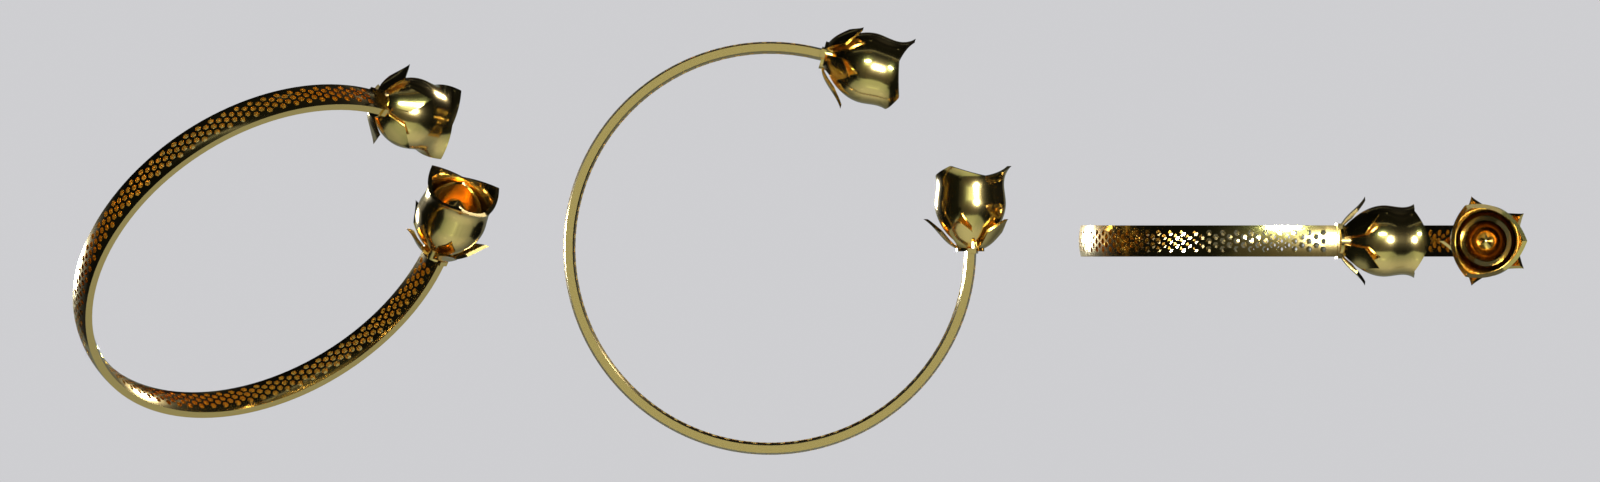
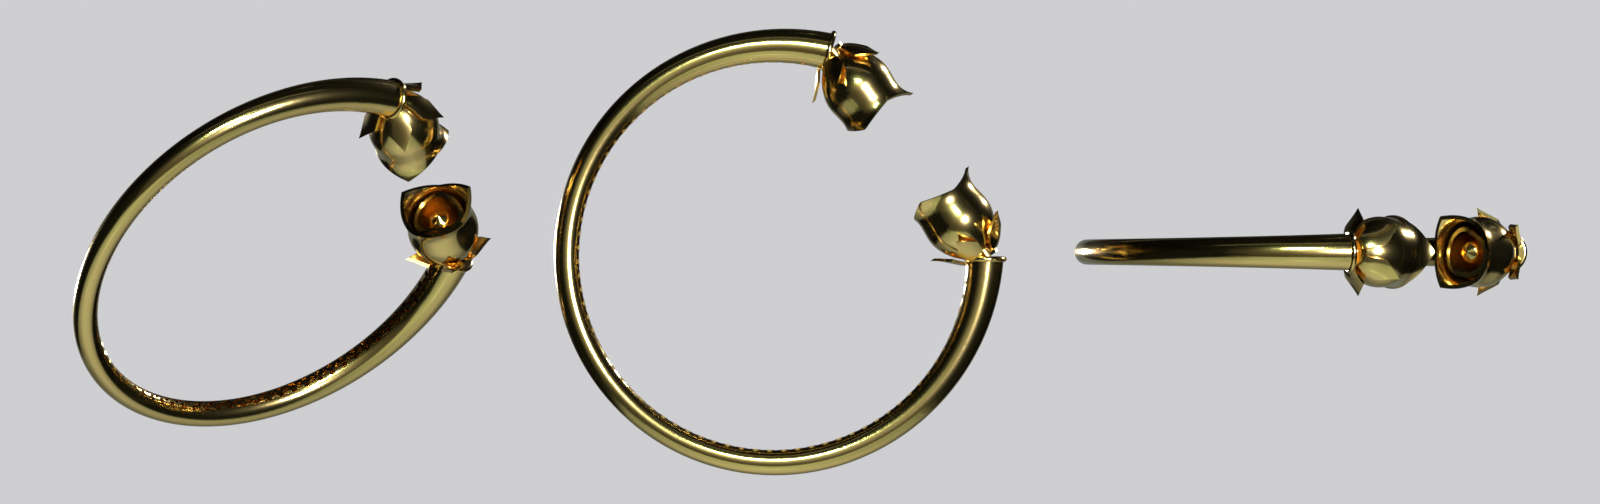
Bangle: hollow tapered tube with inner honeycomb, facing rose buds

Changed region(s): [[0.3438, 0.0311, 0.6562, 0.9336], [0.0312, 0.1556, 0.3125, 0.8714], [0.6562, 0.4046, 0.9688, 0.5913]]

diff --git a/bangle.py b/bangle.py
@@ -48,6 +48,7 @@ def build(inner_d, width, thickness, pattern="plain", gap=0.0, caps=0, roses=Fal
     """Returns (metal solid, warnings)."""
     r_in, w, t = inner_d / 2, width, thickness
     span = 360 - math.degrees(gap / r_in)
+    tube = pattern == "hex"
     if pattern == "twist":
         # Burma twist: rounded-rectangle section swept round the circle while rotating, steered by an
         # auxiliary spine wound around the path. ponytail: inner diameter is kept at the section's
@@ -66,22 +67,40 @@ def build(inner_d, width, thickness, pattern="plain", gap=0.0, caps=0, roses=Fal
         aux = cq.Wire.assembleEdges([cq.Edge.makeSpline(aux, periodic=gap == 0)])
         section = cq.Workplane("XY", origin=(R, 0, 0)).sketch().rect(t, w).vertices().fillet(min(w, t) / 4).finalize()
         body = section.sweep(cq.Workplane().add(path), auxSpine=cq.Workplane().add(aux)).val()
+    elif tube:
+        # Round tube, diameter w mid-arc growing to 1.5 w at the open ends, hollow with wall t (solid when
+        # t is near w/2). The bore stays at r_in. ponytail: open cuffs are lofted through circles every
+        # ~25 deg, so the centre line is a spline that hugs the arc rather than a true arc.
+        d = lambda a: w * (1 + 0.5 * abs(2 * a / span - 1) ** 3)
+        def loft(a0, a1, wall):
+            secs = []
+            for a in (a0 + (a1 - a0) * k / 12 for k in range(13)):
+                u = V(math.cos(math.radians(a)), 0, -math.sin(math.radians(a)))
+                secs.append(cq.Wire.makeCircle(d(a) / 2 - wall, u * (r_in + d(a) / 2), Y.cross(u)))  # normal = tangent
+            return cq.Solid.makeLoft(secs)
+        ring = lambda r: cq.Workplane("XY").moveTo(r_in + w / 2, 0).circle(r).revolve(360, (0, 0, 0), (0, 1, 0)).val()
+        cap = math.degrees(1.0 / r_in)                                   # 1 mm closed end before the void starts
+        body = loft(0, span, 0) if gap else ring(w / 2)
+        if t < w / 2 - 0.15:
+            body = body.cut(loft(cap, span - cap, t) if gap else ring(w / 2 - t))
+        W = T = 1.5 * w if gap else w                                     # tube diameter at the open ends
     else:
         body, W, T = band(r_in, w, t, span), w, t
 
     tools = []
     margin = (caps * 1.5 + 1.0 + 1.5 * bool(roses)) if gap else 0.0     # keep patterns clear of the ends
     if pattern == "hex":
-        # Honeycomb pierced radially through the band, solid rims along both edges. One column of hex
-        # prisms is built, then copied round the arc; all copies are cut in one boolean.
-        # ponytail: straight radial prisms, so the web is ~0.02 mm thinner on the inside face.
+        # Honeycomb on the inner face of the tube: prisms run from inside the bore to the tube centre line,
+        # so they pierce the inner wall into the hollow and never reach the smooth outer face. One column
+        # is built, then copied round the arc; all copies are cut in one boolean.
+        # ponytail: straight radial prisms; where t is near w/2 (solid tube) they become blind pockets.
         pitch = HEX_HOLE + HEX_WEB
-        col_pitch, reach = pitch * math.sqrt(3) / 2, w / 2 - HEX_RIM - HEX_HOLE / 2
+        col_pitch, reach = pitch * math.sqrt(3) / 2, 0.3 * w                    # two staggered rows at w = 4
         prism = (cq.Workplane("YZ", origin=(r_in - 1, 0, 0)).polygon(6, HEX_HOLE / math.cos(math.pi / 6))
-                 .extrude(t + 2).val().rotate(V(), X, 30))                        # vertices along the arc
+                 .extrude(1 + w / 2).val().rotate(V(), X, 30))                    # vertices along the arc
         cols = [[prism.translate(V(0, y * pitch, 0)) for y in range(-20, 21) if abs(y * pitch) <= reach],
                 [prism.translate(V(0, (y + 0.5) * pitch, 0)) for y in range(-20, 20) if abs((y + 0.5) * pitch) <= reach]]
-        rm = r_in + t / 2
+        rm = r_in
         arc = math.radians(span) * rm - 2 * margin
         n = int(arc / col_pitch) if gap else int(arc / col_pitch / 2) * 2         # closed ring: even, so it tiles
         for k in range(n):
@@ -104,24 +123,26 @@ def build(inner_d, width, thickness, pattern="plain", gap=0.0, caps=0, roses=Fal
                 ball = cq.Solid.makeSphere(DIMPLE_R, V(rs + DIMPLE_R - DIMPLE_DEPTH, y, 0), V(0, 0, 1), -90)
                 tools.append(ball.rotate(V(), Y, math.degrees(s / rs)))  # sphere poles along the tangent
 
+    # Collar rings at each open end (--end-caps, and one under each rose): 0.8 mm rings, 1.5 mm apart.
     collars = []
-    if gap and caps:
-        ring_a, pitch_a = math.degrees(0.8 / r_in), math.degrees(1.5 / r_in)  # 0.8 mm rings, 1.5 mm apart
-        for k in range(caps):
-            for start in (k * pitch_a, span - k * pitch_a - ring_a):
-                collars.append(band(r_in, W + 0.6, T + 0.3, ring_a).rotate(V(), Y, start))
+    ring_a, pitch_a = math.degrees(0.8 / r_in), math.degrees(1.5 / r_in)
+    if tube:
+        ring = cq.Solid.makeTorus(T / 2, 0.45, V(r_in + T / 2, 0, 0), V(0, 0, 1)).rotate(V(), Y, ring_a / 2)
+    else:
+        ring = band(r_in, W + 0.6, T + 0.3, ring_a)
+    for k in range(max(caps, bool(roses)) if gap else 0):
+        collars += [ring.rotate(V(), Y, k * pitch_a), ring.rotate(V(), Y, span - k * pitch_a - ring_a)]
 
     if gap and roses:
-        # Rose-bud terminal at each open end, bud pointing along the arc into the opening, with a collar ring.
-        ring_a = math.degrees(0.8 / r_in)
-        collars += [band(r_in, W + 0.6, T + 0.3, ring_a), band(r_in, W + 0.6, T + 0.3, ring_a).rotate(V(), Y, span - ring_a)]
-        bud = rose(1.5 * w)                                          # bud ~2.6 band widths long
-        collars += [bud.translate(V(r_in + T / 2, 0, 0)), bud.rotate(V(), X, 180).translate(V(r_in + T / 2, 0, 0)).rotate(V(), Y, span)]
+        # Rose bud at each open end, turned half the opening angle inward so the two buds face each other.
+        bud = rose(1.25 * W).rotate(V(), Y, -(360 - span) / 2).translate(V(r_in + T / 2, 0, 0))
+        collars += [bud, bud.rotate(V(), X, 180).rotate(V(), Y, span)]                # mirror to the far end
 
-    metal = body.fuse(*collars) if collars else body
-    metal = metal.cut(*tools) if tools else metal                    # no .clean(): it can break validity
+    metal = body.cut(*tools) if tools else body                      # patterns stay clear of the ends,
+    metal = metal.fuse(*collars) if collars else metal               # so cut first, on the simpler body
+    # no .clean(): it can break validity
     checks = [
-        (t < 0.8, f"thickness {t:.2f} mm is under 0.8 mm"),
+        (t < 0.8, f"{'tube wall' if tube else 'thickness'} {t:.2f} mm is under 0.8 mm"),
         (caps and not gap, "end caps need an open bangle (--open-gap > 0); none made"),
         (roses and not gap, "rose terminals need an open bangle (--open-gap > 0); none made"),
         (not metal.isValid(), "metal solid is invalid (shape.isValid() is False)"),
@@ -131,7 +152,9 @@ def build(inner_d, width, thickness, pattern="plain", gap=0.0, caps=0, roses=Fal
 
 def solve_thickness(target_g, density, lo=0.3, hi=6.0, **kw):
     """Bisection on thickness until the full solid (texture, caps included) weighs target_g within 0.3%.
-    ponytail: rebuilds the whole solid every step (~8-10 builds): ~2 s plain, ~2 min textured."""
+    ponytail: rebuilds the whole solid every step (~8-10 builds): ~2 s plain, ~2 min textured, ~3 min hex tube + roses."""
+    if kw.get("pattern") == "hex":
+        hi = min(hi, kw["width"] / 2)  # wall past the tube radius is just a solid tube
     for _ in range(40):
         mid = (lo + hi) / 2
         grams = build(thickness=mid, **kw)[0].Volume() / 1000 * density
@@ -144,8 +167,8 @@ def solve_thickness(target_g, density, lo=0.3, hi=6.0, **kw):
 def main():
     ap = argparse.ArgumentParser(description=__doc__, formatter_class=argparse.RawDescriptionHelpFormatter)
     ap.add_argument("--inner-diameter", type=float, default=62.0, help="mm (62 = medium adult bangle)")
-    ap.add_argument("--width", type=float, default=6.0)
-    ap.add_argument("--thickness", type=float, default=1.5, help="ignored when --target-grams is set")
+    ap.add_argument("--width", type=float, default=6.0, help="band width; tube diameter mid-arc for --pattern hex")
+    ap.add_argument("--thickness", type=float, default=1.5, help="band thickness; tube wall for --pattern hex. Solved by --target-grams")
     ap.add_argument("--target-grams", type=float, help="solve thickness for this metal weight")
     ap.add_argument("--metal", choices=METALS, default="22k")
     ap.add_argument("--pattern", choices=("plain", "twist", "texture", "hex"), default="plain")

diff --git a/test_ring.py b/test_ring.py
@@ -28,9 +28,9 @@ assert abs(grams - 15.0) / 15.0 < 0.01, grams
 assert b.isValid() and warns == [], warns
 assert bangle.build(62, 3.5, 2.5, "twist")[0].isValid()
 
-# Pierced hex cuff with rose terminals: the solve includes the holes and roses, and the solid stays valid
-kw = dict(inner_d=62, width=5, pattern="hex", gap=40, roses=True)
-b = bangle.build(thickness=bangle.solve_thickness(30.0, ring.METALS["22k"], **kw), **kw)[0]
-assert b.isValid() and abs(b.Volume() / 1000 * ring.METALS["22k"] - 30.0) / 30.0 < 0.01, b.Volume()
+# Hollow hex tube cuff with rose terminals: the wall solve includes the holes and roses, and the solid stays valid
+kw = dict(inner_d=62, width=4, pattern="hex", gap=40, roses=True)
+b = bangle.build(thickness=bangle.solve_thickness(40.0, ring.METALS["22k"], **kw), **kw)[0]
+assert b.isValid() and abs(b.Volume() / 1000 * ring.METALS["22k"] - 40.0) / 40.0 < 0.01 and len(b.Solids()) == 1, b.Volume()
 
 print("all tests passed")

diff --git a/README.md b/README.md
@@ -3,7 +3,7 @@
 Python + CadQuery scripts that generate jewelry from a few numbers. The solitaire ring has a 6-prong crown head with a collar and pavé shoulders. The bangle (Turkish *bilezik*) can be plain, a twist, dimpled or pierced with a honeycomb, closed or an open cuff with rose-bud terminals. Each script writes a manufacturable STEP and STL, an STL of the stones, and a `report.json` with the metal weight and manufacturability warnings.
 
 ![Generated ring](docs/ring-hero.png)
-![Generated bangle: pierced hex cuff with rose-bud terminals](docs/bangle-hero.png)
+![Generated bangle: hollow tube cuff with inner honeycomb and facing rose-bud terminals](docs/bangle-hero.png)
 
 | Original Rhino/Matrix Gold render | Generated from code |
 |---|---|
@@ -18,7 +18,7 @@ More ring variants: [docs/ring-variants.png](docs/ring-variants.png). The left i
 uv venv --python 3.12 .venv
 uv pip install --python .venv/bin/python -r requirements.txt
 .venv/bin/python ring.py --size-us 6 --stone-mm 6.5 --prongs 6      # -> out/ring.step, ring.stl, stone.stl, report.json
-.venv/bin/python bangle.py --width 5 --pattern hex --open-gap 40 --roses --target-grams 35   # ~80 s
+.venv/bin/python bangle.py --width 4 --pattern hex --open-gap 40 --roses --target-grams 48   # ~3 min
 .venv/bin/python test_ring.py                                        # plain asserts, ~2 min
 ```
 
@@ -60,12 +60,12 @@ Example `out/report.json` (default ring, 18k):
 | `--width` / `--thickness` | 6 / 1.5 | mm |
 | `--target-grams` | none | Solve the thickness by bisection so the finished piece (including texture and caps) weighs this much |
 | `--metal` | 22k | Same metals as the ring |
-| `--pattern` | plain | `plain`, `twist` (burma twist), `texture` (hex-packed dimples) or `hex` (honeycomb pierced through the band, solid rims along both edges) |
+| `--pattern` | plain | `plain`, `twist` (burma twist), `texture` (hex-packed dimples) or `hex` (hollow round tube, 4 mm → 6 mm toward the ends; honeycomb cut through the inner wall only, outer face smooth; `--thickness` is the tube wall) |
 | `--open-gap` | 0 | Cuff opening in mm (0 = closed) |
 | `--end-caps` | 0 | Raised rings at each open end |
-| `--roses` | off | Rose-bud terminal at each open end: calyx of 5 pointed sepals, 3 outer and 2 inner petals, a core, and a collar ring |
+| `--roses` | off | Rose-bud terminal at each open end: calyx of 5 pointed sepals, 3 outer and 2 inner petals, a core, and a collar ring. The two buds face each other across the opening |
 
-The solved thickness and weight go into `report.json`. A thickness under 0.8 mm produces a warning. Example: the hero cuff (22k, 5 mm wide, hex piercing, 40 mm opening, roses), targeting 35 g, solves to 1.97 mm and 34.96 g. The holes and the roses are part of the weighed solid. The hex solve takes about 80 seconds and the dimpled one about 2–3 minutes, because every bisection step rebuilds the cuts. A plain solve takes about 2 seconds.
+The solved thickness and weight go into `report.json`. A thickness under 0.8 mm produces a warning. Example: the hero cuff (22k, 4 mm hollow tube, inner honeycomb, 40 mm opening, roses), targeting 48 g, solves to a 0.96 mm wall and 48.03 g. The holes and the roses are part of the weighed solid. The hex tube solve takes about 3 minutes and the dimpled one about 2–3 minutes, because every bisection step rebuilds the cuts. A plain solve takes about 2 seconds.
 
 ## Regenerating the previews
 
@@ -75,7 +75,7 @@ The previews are rendered with Blender (headless Cycles):
 .venv/bin/python ring.py --out out/ring-hero
 .venv/bin/python ring.py --prongs 4 --pave 0 --out out/ring-us6
 .venv/bin/python ring.py --size-us 7 --stone-mm 8 --band-width 2.6 --pave 6 --pave-mm 1.5 --out out/ring-us7
-.venv/bin/python bangle.py --width 5 --pattern hex --open-gap 40 --roses --target-grams 35 --out out/bangle-rose
+.venv/bin/python bangle.py --width 4 --pattern hex --open-gap 40 --roses --target-grams 48 --out out/bangle-rose
 .venv/bin/python bangle.py --pattern texture --open-gap 25 --end-caps 3 --target-grams 20 --out out/bangle-cuff
 .venv/bin/python bangle.py --target-grams 20 --out out/bangle-plain
 .venv/bin/python bangle.py --pattern twist --width 3.5 --thickness 2.5 --out out/bangle-twist
@@ -91,8 +91,9 @@ blender -b -P render.py -- docs/bangles.png --tilt=30 out/bangle-cuff/bangle.stl
 - The 45° prong-lean check is a rule of thumb, not a stress analysis.
 - The "platinum" density (21.45) is pure platinum. Pt950 is about 20.1–20.7 g/cm³.
 - The twist bangle keeps the section diagonal at the inner diameter, so the bore is slightly larger where the flats face inward.
-- The rose buds are smooth revolved petals with pointed tips. The curled petal lips and the spiral centre of the reference are not modelled. The reference band is a round tube, while this one keeps the comfort-fit band profile.
-- The hex holes are straight radial prisms (0.9 mm across flats, 0.4 mm walls), so the walls are slightly thinner on the inside face. The dimple texture is coarse (1.6 mm pitch).
+- The rose buds are smooth revolved petals with pointed tips. The curled petal lips and the spiral centre of the reference are not modelled.
+- The hex tube is lofted through circles every ~25°, so its centre line is a spline, not a true arc. The taper (4 → 6 mm, cubic) is a guess from the photo. A closed hex bangle keeps a constant diameter. If the wall is within 0.15 mm of the tube radius the tube is solid and the holes become blind pockets.
+- The hex holes are straight radial prisms (0.9 mm across flats, 0.4 mm walls) in fixed rows, so the honeycomb does not follow the taper and shows less than in the reference. The dimple texture is coarse (1.6 mm pitch).
 - `.clean()` is skipped on the final solids because it made them invalid. The STL exports are not guaranteed watertight, but their volume matches the B-rep.
 
 ## About
